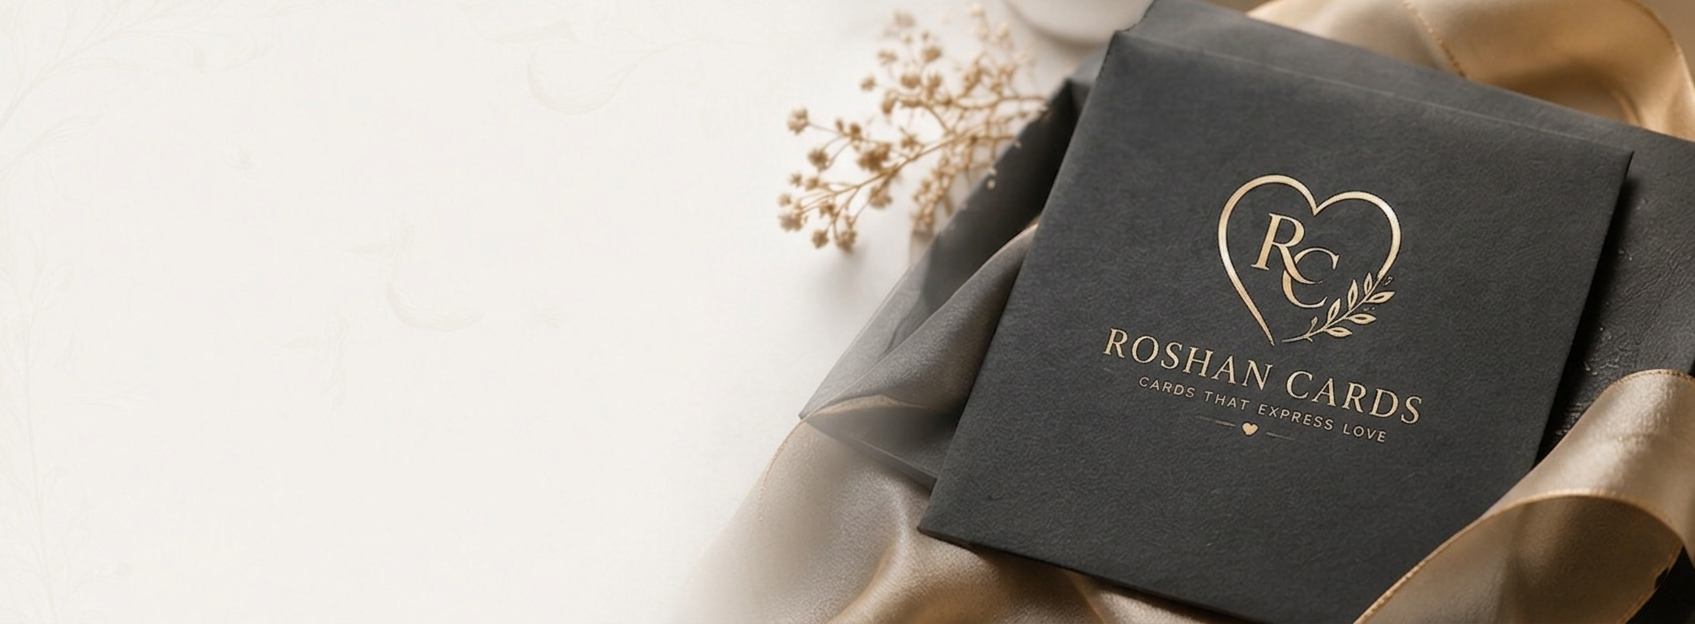
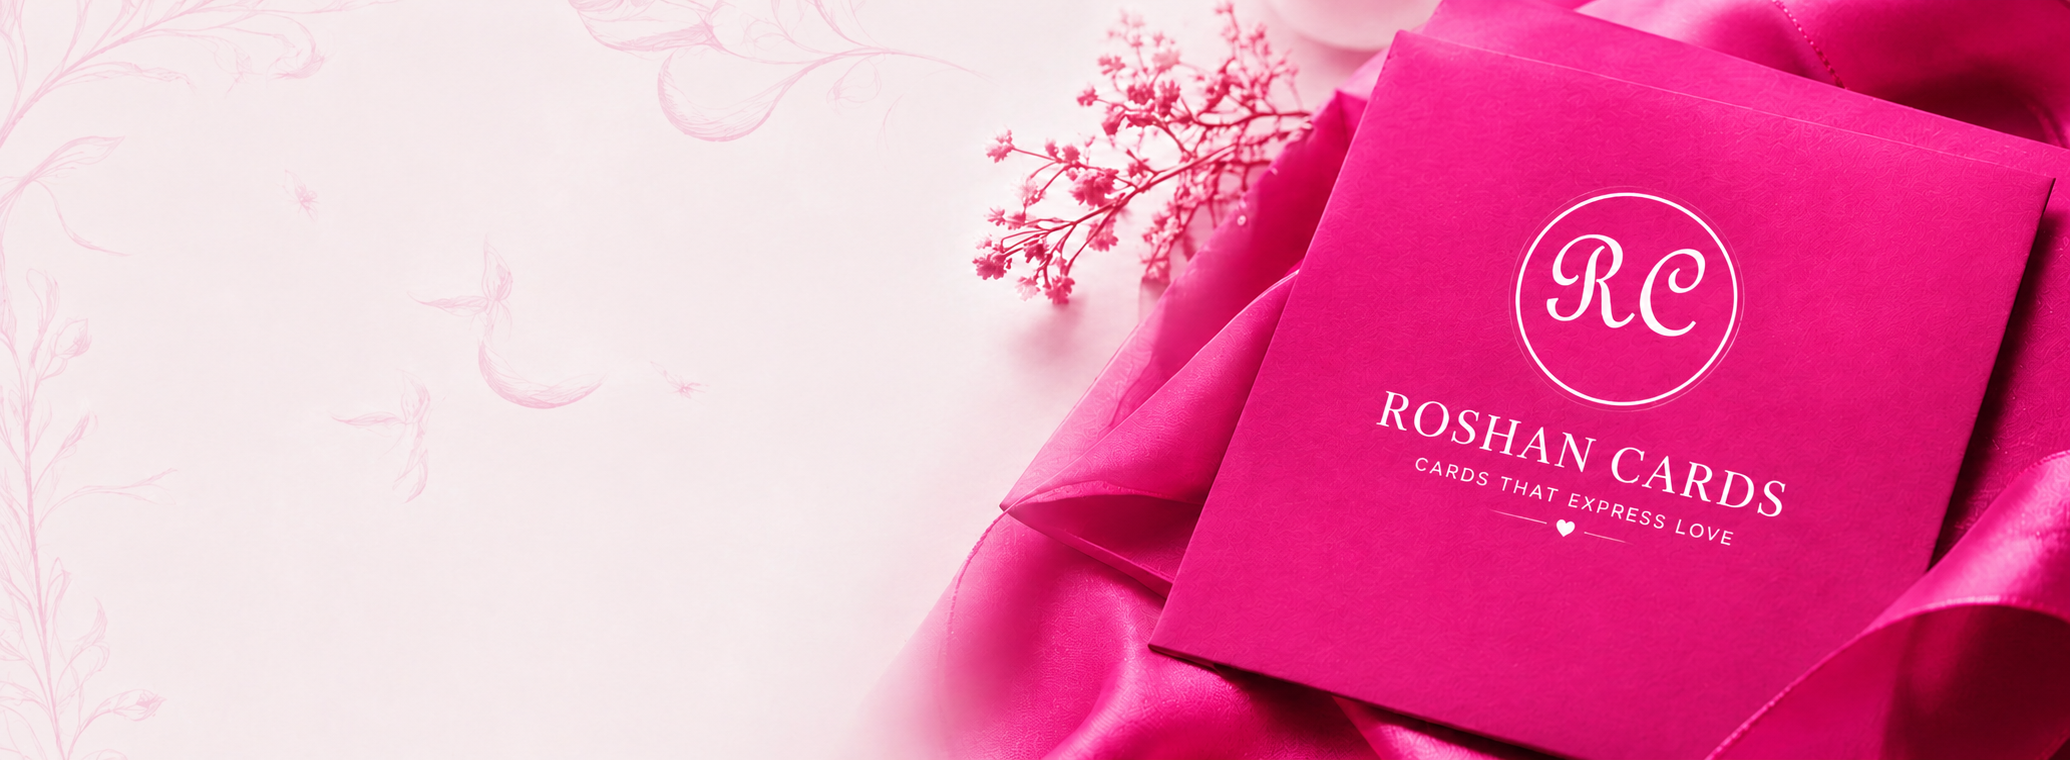
New Pink UI

diff --git a/src/styles/index.css b/src/styles/index.css
@@ -585,14 +585,14 @@ a {
 	min-height: 0;
 	border-radius: 0;
 	overflow: hidden;
-	background: radial-gradient(circle at top, rgba(103, 211, 194, 0.14), transparent 60%), rgba(15, 23, 42, 0.03);
+	background: radial-gradient(circle at top, rgb(255,255,255), transparent 60%), rgb(255, 255, 255);
 }
 
 .catalogue-card__image {
 	display: block;
 	width: 100%;
 	height: 100%;
-	object-fit: cover;
+	object-fit: contain;
 	border-radius: 0;
 }
 
@@ -1791,6 +1791,7 @@ a {
 	padding: 4.25rem 1.25rem 0 2rem;
 	width: 100%;
 	margin: 0;
+	font-family: 'Trebuchet MS', 'Lucida Sans Unicode', 'Lucida Grande', 'Lucida Sans', Arial, sans-serif !important;
 	position: relative;
 	z-index: 1;
 }
@@ -3190,7 +3191,7 @@ a {
 	margin-bottom: 1rem;
 }
 .muted{ color: var(--text-secondary); margin-bottom: 1rem }
-.contact-list{ list-style: none; color:black;font-weight: bold; margin-top: .5rem;background: rgba(29, 34, 65, 0.082);backdrop-filter: blur(8px) saturate(160%);-webkit-backdrop-filter: blur(18px) saturate(160%);box-shadow: 0 16px 38px rgba(15, 23, 42, 0.12);border-radius:15px;padding: 1.5rem 3rem;font-family:sans-serif;letter-spacing:0.05em;backdrop-filter:blur(12px);-webkit-backdrop-filter:blur(12px);box-shadow:0 8px 24px rgba(103,211,194,0.2) }
+.contact-list{ list-style: none; color:black;font-weight: bold; margin-top: .5rem;background: rgba(29, 34, 65, 0.082);backdrop-filter: blur(8px) saturate(160%);-webkit-backdrop-filter: blur(18px) saturate(160%);box-shadow: 0 16px 38px rgba(15, 23, 42, 0.12);border-radius:15px;padding: 1.5rem 3rem;font-family:'Couier';letter-spacing:0.05em;backdrop-filter:blur(12px);-webkit-backdrop-filter:blur(12px);box-shadow:0 8px 24px rgba(103,211,194,0.2) }
 .contact-list li{ margin: .45rem 0 }
 .contact-form label{ display:block; margin-bottom: .8rem }
 .contact-form .label{ display:block; font-size:.85rem; margin-bottom:.35rem; color:var(--text-secondary) }
@@ -3463,9 +3464,9 @@ a {
 	width: 100%;
 	height: 100%;
 	border-radius: 12px;
-	object-fit: cover;
+	object-fit: contain;
 	object-position: center;
-	background: #fff8a8;
+	background: #ffffff;
 	transition: opacity 180ms ease;
 }
 
@@ -3887,7 +3888,7 @@ a {
 	position:relative;
 }
 
-.about-us-hero h1,.why-us-hero h1,.services-hero h1 {
+.about-us-hero h1,.why-us-hero h1 {
 	font-size: 3rem;
 	line-height: 1;
 	color: white;
@@ -3902,6 +3903,13 @@ a {
 }
 
 .services-hero h1{
+	font-size: 3rem;
+	line-height: 1;
+	letter-spacing: -0.05em;
+	margin: .1rem 0 0.65rem;
+	position:relative;
+	text-shadow: none;
+	color: #ff3d8d;
 	margin-top: 3rem;
 	margin-left: 2rem;
 }
@@ -3911,9 +3919,10 @@ a {
 	max-width: 31rem !important;
 }
 
-#about-us-brand,#why-us-brand,#services-brand{
+#about-us-brand,#why-us-brand{
 	background: #ff3d8d;
 	background-clip: text;
+	text-shadow: none;
 	-webkit-background-clip: text;
 	-webkit-text-fill-color: transparent;	
 	color:transparent !important;
@@ -5069,18 +5078,45 @@ video {
     letter-spacing: -0.03em;
   }
   .single-product-details{
-    top: 10%;
+    top: 20%;
 	margin-bottom: 5rem;
   }
+  .about-us-content__item,.why-us-content__item{
+	transform: scale(0.7);
+  }
   .single-product-image-section{
-    top: 0;
-    height: 33vh;
+    top: 15%;
+	left: 20%;
+	width: 60% !important;
+	max-width: 150% !important;
+    height: 45vh;
+	padding: 0.5rem 1.5rem 0.5rem 1.5rem;
+  }
+  .single-product-topbar{
+	margin-top: -3rem !important;
+	margin-bottom: 3rem;
+  }
+  .single-product-arrows{
+	width: 140%;
+	left: -20%;
   }
   .single-product-image{
-	height: 30vh;
+	height: 42vh;
+
+  }
+  .single-product-image-wrap{
+	height: fit-content !important;
+	width:fit-content !important;
+	max-width: 100% !important;
   }
   .single-product-thumbnails{
     left:15%;
+	top: -25%;
+  }
+  .single-product-thumb{
+	border-radius: 10px;
+	height: 3rem;
+	object-fit: contain;
   }
   .catalogue-category-button{
     margin-top: 2rem !important;
@@ -5103,9 +5139,15 @@ video {
     max-height: 11rem;
   }
 
+  .services-banner{
+	display:none;
+  }
+  .services-hero h1{
+	margin-top: 0;
+  }
   .about-us-content,
   .why-us-content {
-    flex-wrap: wrap;
+    flex-wrap: nowrap;
     justify-content: center;
     gap: .5rem;
   }
@@ -5282,6 +5324,9 @@ video {
     font-size: 0.95rem;
     padding: 0.6rem 1.4rem;
   }
+  .about-us-content__image,.why-us-content__image{
+	margin-left: -23% !important;
+  }
   .catalogue-card{
     width: 100%;
     margin-left: -2%;
@@ -5306,17 +5351,13 @@ video {
     left: -20%;
   }
 
-  .single-product-breadcrumb {
-    margin-top: -8%;
-    margin-right: 5%;
-  }
-  .single-product-back-button{
-    margin-top: -10%;
+  .single-product-thumbnails{
+	margin-top: -1rem;
   }
   .single-product-image-section {
     padding: 0.5rem;
     width: 70% !important;
-    height: 33vh;
+    height: 45vh;
     top: 15%;
     left: 15%;
   }
@@ -5444,7 +5485,7 @@ video {
   }
 
   .about-us-content__item,.why-us-content__item,.services-content-item{
-	transform: scale(1.5) !important;
+	transform: scale(1.2) !important;
 	margin-left: 3%;
   }
 

diff --git a/src/components/Contact.jsx b/src/components/Contact.jsx
@@ -67,9 +67,9 @@ ${payload.message}`;
     return (
         <section className="contact" aria-labelledby="contact-heading">
             <span style={{position:"relative",top:"-8rem"}} id="contact"></span>
-            <div className="contact-container">
-                <div className="contact-info">
-                    <h1 id="contact-heading">Contact us</h1>
+            <div style={{fontFamily:'fangsong'}} className="contact-container">
+                <div style={{fontFamily:'fangsong !important'}} className="contact-info">
+                    <h1 id="contact-heading" style={{color:'#ff3d8d'}}>Contact us</h1>
                     <ul className="contact-list">Have a question or want to work together? Reach out using the form or the contact details.</ul>
                     <ul className="contact-list">
                         {loading ? (

diff --git a/src/pages/Catalouge.jsx b/src/pages/Catalouge.jsx
@@ -304,7 +304,9 @@ function Catalouge() {
                                     style={{ textDecoration: 'none', color: 'inherit' }}
                                 >
                                     <article className="catalogue-card">
-                                        <LazyCatalogueImage src={firstImage} alt={product.name} />
+                                        <div className="catalogue-image-wrap">
+                                            <LazyCatalogueImage src={firstImage} alt={product.name} />
+                                        </div>
 
                                         <div className="catalogue-card__body">
                                             <div className="catalogue-card__info">

diff --git a/index.html b/index.html
@@ -2,7 +2,7 @@
 <html lang="en">
   <head>
     <meta charset="UTF-8" />
-    <link rel="icon" type="image/svg+xml" href="/assets/Logo-withBG.jpg" />
+    <link rel="icon" type="image/svg+xml" href="/logo.png" />
     <link rel="stylesheet" href="/src/styles/media-query.css">
     <meta name="viewport" content="width=device-width, initial-scale=1.0" />
     <meta name="description" content="Browse premium readymade and customized calendars, diaries and Invitations for Wedding and for all other functions from RoshanCards."/>
